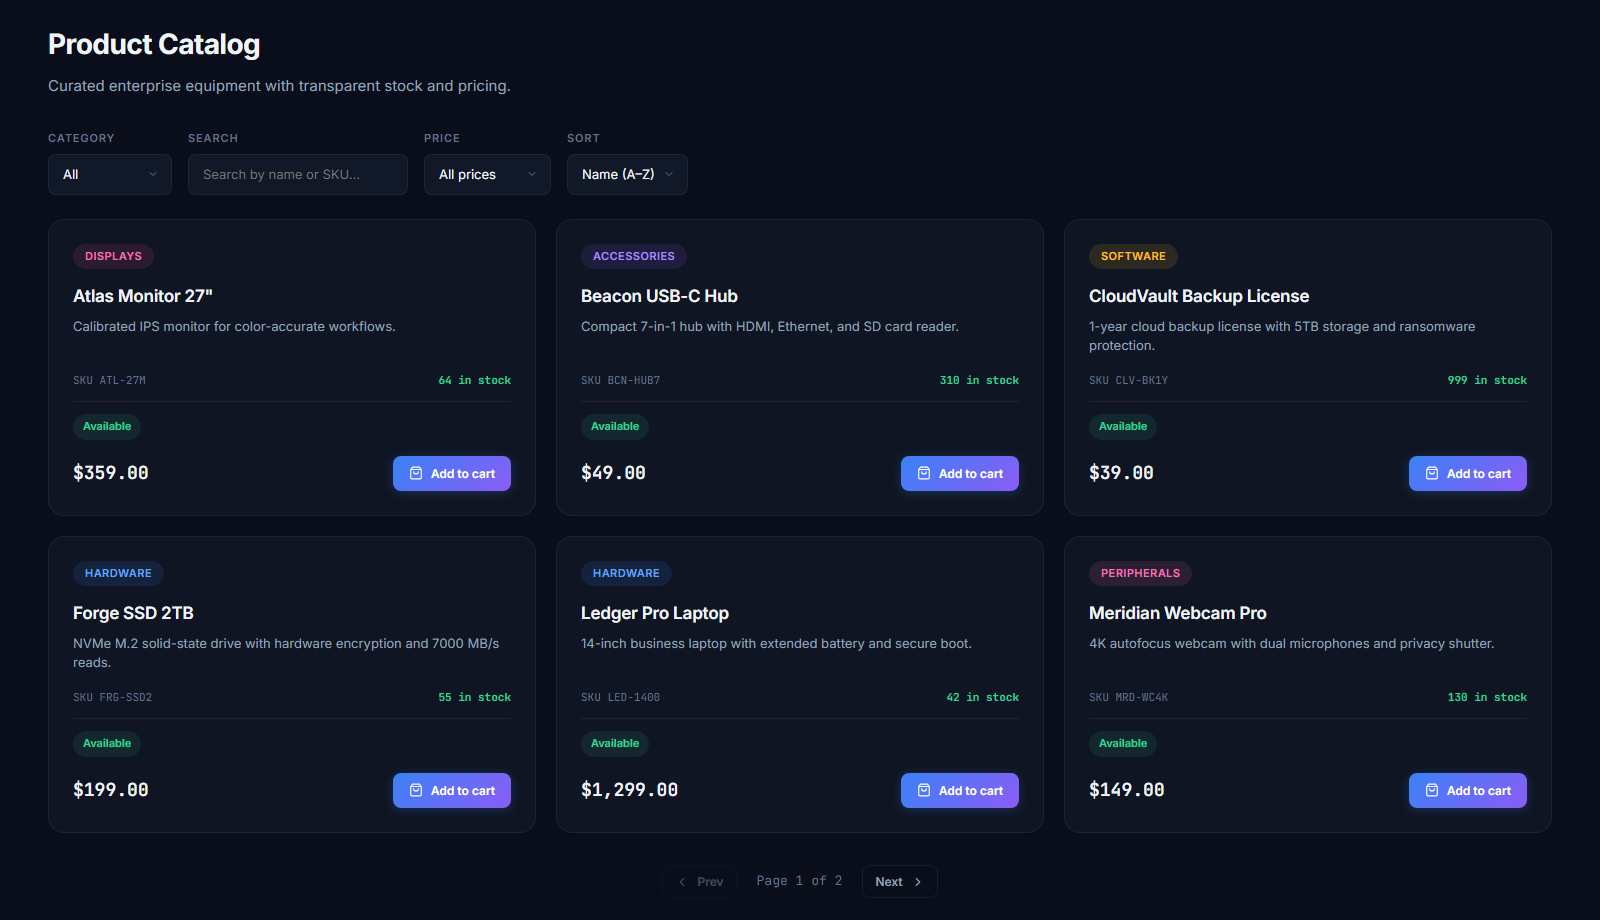
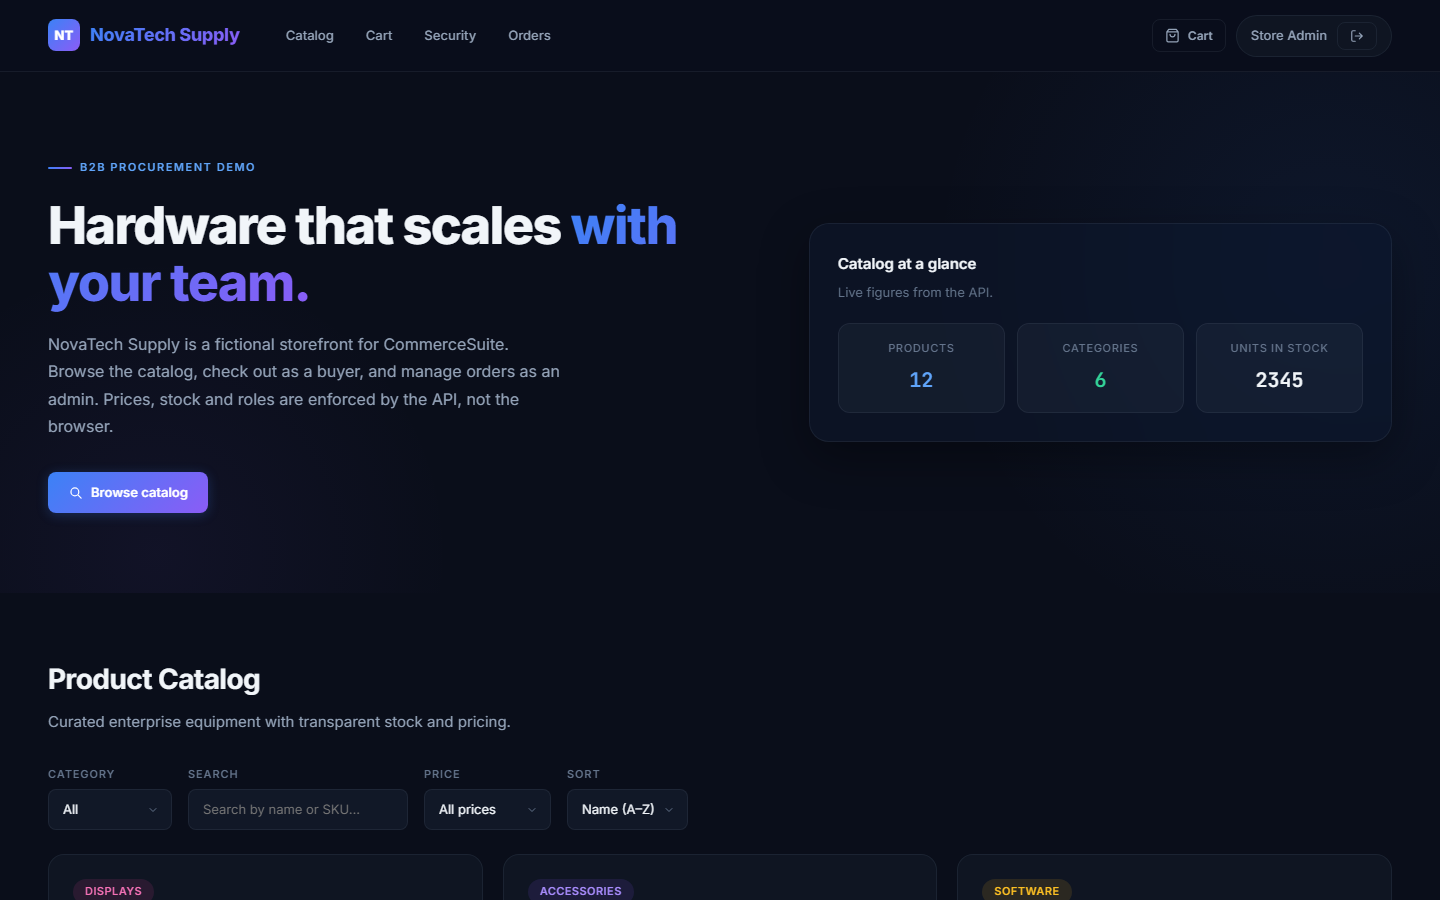
docs: update README for the new API behaviour and refresh screenshots
Documents the API routes, environment variables (CORS_ORIGIN list,
TRUST_PROXY), the order status rules, My orders, the full error table,
the localStorage token tradeoff, the ephemeral demo database on Render
and known limitations. Rewords the AssetDesk mention neutrally.
Screenshots were captured from a local run of the current UI.

diff --git a/README.md b/README.md
@@ -2,7 +2,7 @@
 
 [![CI](https://github.com/JimmyAlter/CommerceSuite/actions/workflows/ci.yml/badge.svg)](https://github.com/JimmyAlter/CommerceSuite/actions/workflows/ci.yml)
 
-An internal procurement storefront: catalog, cart and checkout for buyers, and order management for admins. Totals, stock and roles are enforced on the server. The UI is branded as "NovaTech Supply", a fictional company.
+A B2B procurement storefront: catalog, cart and checkout for buyers, and order management for admins. Totals, stock and roles are enforced by the API, not the browser. The UI is branded as "NovaTech Supply", a fictional company used only as the in-app demo brand.
 
 **Live demo:** [commercesuite-demo.vercel.app](https://commercesuite-demo.vercel.app). The API runs on Render's free tier, so the first request after a while idle can take up to a minute.
 
@@ -11,36 +11,66 @@ An internal procurement storefront: catalog, cart and checkout for buyers, and o
 | Admin | `admin@commercesuite.dev` | `demo123` |
 | Buyer | `buyer@commercesuite.dev` | `demo123` |
 
+The demo database is recreated and seeded every time the API restarts (deploys, cold starts), so orders placed there do not persist.
+
 ![Catalog](docs/screenshots/catalog.png)
+
+![Admin order management](docs/screenshots/admin-orders.png)
 
 ## What it does
 
 - **Catalog**: public list of active products, with category, search, price filters and sorting in the UI
 - **Checkout**: the client sends product IDs and quantities only. The server reads prices from the database, checks stock, and writes the order, its line items and the stock decrement in one SQLite transaction. If any line fails, nothing is written
-- **Roles**: `requireRole('admin')` guards product creation, the order list and status changes, so a buyer token gets a 403. Hiding admin screens in the UI is not what protects them
-- **Order status**: `processing` → `fulfilled` or `cancelled`. Any other value is rejected
+- **My orders**: a signed-in buyer sees their own orders and line items
+- **Roles**: `requireRole('admin')` guards product creation, the full order list and status changes, so a buyer token gets a 403. Hiding admin screens in the UI is not what protects them
+- **Order status**: `processing` can move to `fulfilled` or `cancelled`, and both are final. Any other transition is a 409. Cancelling puts the reserved stock back in the same transaction
 
-It shares its foundation with [AssetDesk](https://github.com/JimmyAlter/AssetDesk). This is the one where the role checks actually landed.
+## Architecture
+
+```text
+React 19 + Vite (Vercel) ──HTTPS/JSON──► Express 4 API (Render) ──► SQLite (better-sqlite3)
+```
+
+| Path | What lives there |
+|---|---|
+| `backend/src/server.js` | Routes, auth middleware, validation, error handlers |
+| `backend/src/config.js` | CORS origin and `trust proxy` parsing |
+| `backend/src/db.js` | Schema (foreign keys, CHECK constraints) and seed data |
+| `frontend/src/api.js` | `fetchJson` helper: base URL, headers, `{ error }` handling |
+| `frontend/src/App.jsx` | Catalog, cart, checkout and orders UI |
+
+## API
+
+Request and response bodies are JSON. Errors are always `{ "error": "message" }`. Authenticated routes take `Authorization: Bearer <token>`.
+
+| Method | Path | Auth | Notes |
+|---|---|---|---|
+| GET | `/api/health` | none | `{ "status": "ok" }` |
+| POST | `/api/auth/login` | none | `{ email, password }` returns `{ token, user }`. Rate limited to 20/min per client |
+| GET | `/api/products` | none | Active products |
+| POST | `/api/products` | admin | Create a product |
+| POST | `/api/orders` | any user | `{ items: [{ product_id, quantity }], shipping: { name, address, city, country }, payment_method? }` |
+| GET | `/api/orders/mine` | any user | The caller's orders, each with its `items` |
+| GET | `/api/orders` | admin | All orders |
+| PATCH | `/api/orders/:id` | admin | `{ status }`, `fulfilled` or `cancelled` |
 
 ## Validation and errors
 
 | Case | Response |
 |---|---|
-| Missing or invalid token | 401 |
-| Buyer calling an admin route | 403 |
+| Malformed JSON body, missing or wrong-typed fields (login, orders, products) | 400 |
 | Unknown product, bad quantity (not a whole number from 1 to 999), more than 50 lines, missing shipping fields, unknown payment method | 400 |
-| Not enough stock, duplicate SKU | 409 |
-| Status change on a missing order | 404 |
-
-## Stack
-
-React 19 and Vite (frontend) · Node.js, Express and better-sqlite3 (API) · JWT auth, bcrypt, helmet and express-rate-limit
-
-```text
-React (Vercel) ──► Express API (Render) ──► SQLite
-```
+| Missing, malformed, expired or wrongly signed token, or a scheme other than `Bearer` | 401 |
+| Buyer calling an admin route | 403 |
+| Request from a browser origin that is not allowed | 403 |
+| Unknown route, status change on a missing order | 404 |
+| Not enough stock, duplicate SKU, status change that is not allowed | 409 |
+| Body over 200 KB | 413 |
+| Anything unexpected | 500 with a generic message; details are only logged server-side |
 
 ## Running it locally
+
+Requires Node.js 20.19 or newer.
 
 ```bash
 cd backend
@@ -53,31 +83,63 @@ npm ci
 npm run dev          # http://localhost:5173, talks to http://localhost:4100 by default
 ```
 
-## Tests
+Backend environment variables (see `backend/.env.example`):
+
+| Variable | Default | Purpose |
+|---|---|---|
+| `PORT` | `4100` | HTTP port |
+| `JWT_SECRET` | dev value | Required in production; the server exits if it is missing or still the dev default |
+| `CORS_ORIGIN` | none | Comma-separated browser origins allowed to call the API. `http://localhost` and `http://127.0.0.1` (any port) are also allowed when `NODE_ENV` is not `production` |
+| `DB_PATH` | `backend/data/commercesuite.db` | SQLite file |
+| `TRUST_PROXY` | `1` in production, off otherwise | Express `trust proxy` value (hop count, `true`/`false`, or a subnet list), so the rate limit sees the real client IP behind a reverse proxy |
+
+The frontend reads `VITE_API_URL` (default `http://localhost:4100`).
+
+## Tests and CI
 
 ```bash
-cd backend && npm test
+cd backend && npm test          # or: npm run test:coverage
+cd frontend && npm test && npm run lint
 ```
 
-The node:test suite starts the API against a fresh SQLite file and checks the following:
+The backend node:test suite starts the API against a throwaway SQLite file and covers:
 
-- RBAC on every admin route
-- totals are computed from server prices, even when the client sends a price
+- RBAC on every admin route, and buyers only seeing their own orders
+- totals computed from server prices, even when the client sends a price
 - an order that exceeds stock is rejected and leaves orders and inventory untouched
-- every row of the validation table above
+- the order status rules, including stock being restored once on cancel
+- every row of the validation table above, including expired, `alg: none` and non-Bearer tokens
+- CORS and `trust proxy` configuration
+- the schema: seeding an empty database, foreign keys, CHECK constraints, and booting on a database created with the older schema
 
-CI runs these tests on Node 20 and 22, plus the frontend lint and build.
+The frontend has vitest tests for the `fetchJson` helper: headers are merged so `Content-Type` survives an `Authorization` header, and server error messages reach the UI.
+
+CI runs the backend suite with coverage on Node 20 and 22, plus the frontend lint, tests and build. Dependabot opens weekly updates for both packages and the workflow actions.
 
 ## Security notes
 
 - All queries are prepared statements with `?` placeholders.
-- `helmet` sets the default security headers. JSON bodies are capped at 200 KB, and login is limited to 20 attempts per minute.
-- With `NODE_ENV=production`, the server exits at startup if `JWT_SECRET` is missing or still the development default.
-- Passwords are stored as bcrypt hashes and never returned by the API.
+- Passwords are bcrypt hashes and are never returned. Login for an unknown email still runs a bcrypt comparison against a dummy hash, so it takes about as long as a wrong password.
+- JWTs are signed and verified with HS256 only and expire after 8 hours.
+- `helmet` sets the default security headers. JSON bodies are capped at 200 KB. Login is limited to 20 attempts per minute per client IP; `trust proxy` makes that work behind Render's proxy.
+- With `NODE_ENV=production`, the server exits at startup if `JWT_SECRET` is missing or still the development default, and localhost origins are rejected.
+- The frontend keeps the token in `localStorage`. That keeps the demo simple, but any XSS on the page could read it. A production build would use an `HttpOnly`, `SameSite` cookie with CSRF protection instead.
+
+See [SECURITY.md](SECURITY.md) to report a vulnerability.
 
 ## Deployment
 
-`render.yaml` defines the API service and `DB_PATH`. The frontend is a static Vite build on Vercel with `VITE_API_URL` pointing at the API. SQLite fits a single small instance like this demo. For more than one instance, move to PostgreSQL. The data layer lives in `backend/src/db.js`.
+`render.yaml` defines the API service: `npm ci`, a health check, a generated `JWT_SECRET` and `CORS_ORIGIN` for the Vercel site. Render's free plan has no persistent disk, so SQLite lives on the instance's ephemeral filesystem and is seeded on boot. The frontend is a static Vite build on Vercel with `VITE_API_URL` pointing at the API.
+
+## Limitations
+
+- SQLite on a single instance. Running more than one instance, or keeping data across restarts, means moving to PostgreSQL; the data layer is in `backend/src/db.js`.
+- Foreign keys and CHECK constraints apply to databases created with the current schema. An older database file still works but keeps its old tables until it is recreated. There is no migration tool.
+- No real payments, taxes or shipping. `payment_method` is recorded; nothing is charged.
+- No product editing, order pagination or password reset. Product creation is API-only; the UI has no form for it.
+- The token lives in `localStorage` (see Security notes).
+
+It shares its foundation with [AssetDesk](https://github.com/JimmyAlter/AssetDesk), an IT operations workspace by the same author.
 
 ## License
 
